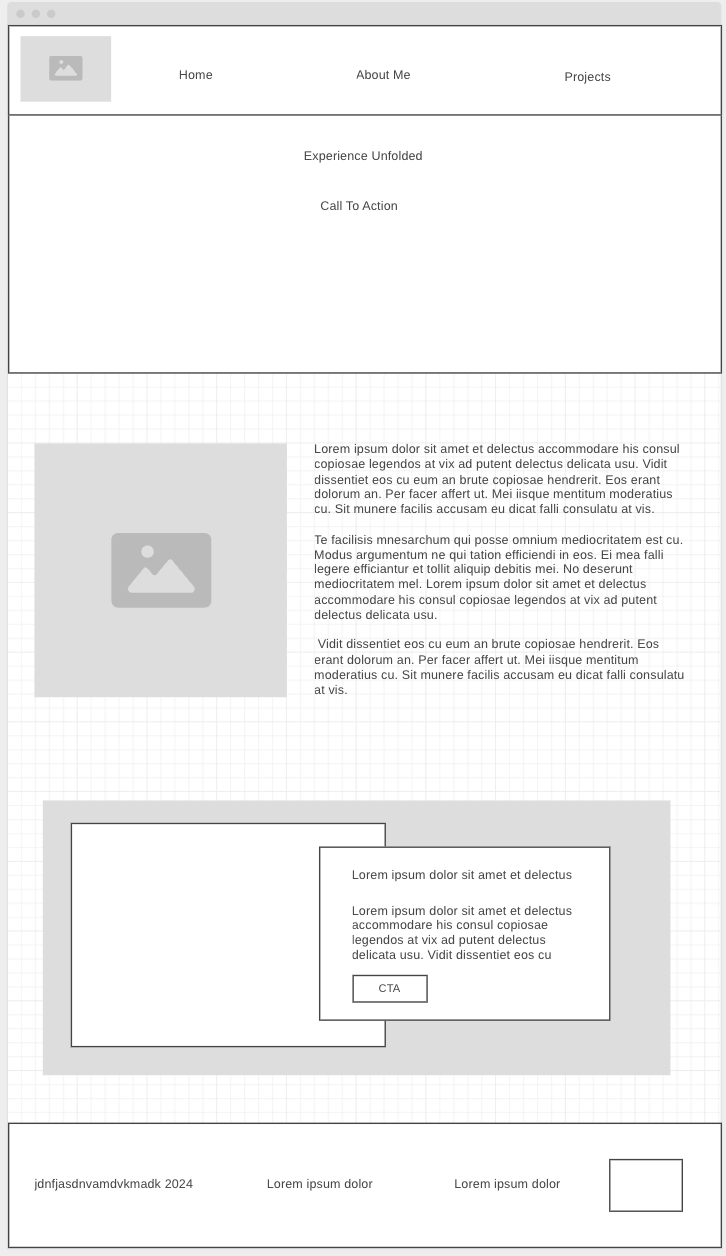
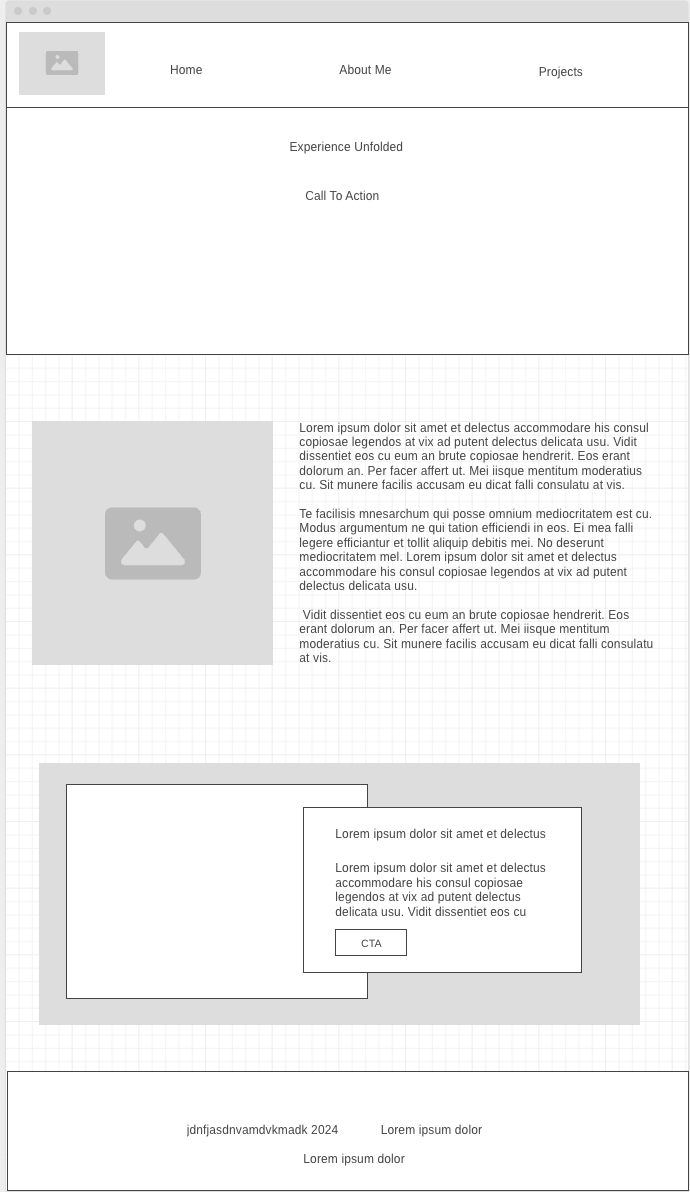
changes

diff --git a/final-project/styles/styles.css b/final-project/styles/styles.css
@@ -1,171 +1,81 @@
-/* index.html */
-* {
-    margin: 0;
-    padding: 0;
-    box-sizing: border-box;
-}
+@import url('https://fonts.googleapis.com/css2?family=Open+Sans:ital,wght@0,300..800;1,300..800&family=Poppins:ital,wght@0,100;0,200;0,300;0,400;0,500;0,600;0,700;0,800;0,900;1,100;1,200;1,300;1,400;1,500;1,600;1,700;1,800;1,900&display=swap');
 
-body {
-    font-family: Arial, sans-serif;
-    line-height: 1.6;
-    color: #333;
-    background-color: #f9f9f9;
-    margin: 0 auto;
+body{
+    font-family: "Poppins", sans-serif;
     max-width: 1024px;
+    margin: 0 auto;
 }
 
-/* Header */
-header {
-    display: flex;
-    justify-content: space-between;
-    align-items: center;
-    padding: 10px 20px;
-    background-color: #fff;
-    border-bottom: 2px solid #ddd;
+:root{
+    --primary-color: #AD5D4E  ;
+    --secondary-color: #A0ACAD ;
+    --accent1-color:#F5DBCB ;
+    --accent2-color:#253031 ;
 }
 
-header .logo img {
+.logo img{
     width: 100px;
+    margin: 10px;
 }
 
-header nav a {
-    text-decoration: none;
-    color: #333;
-    margin: 0 10px;
-    font-weight: bold;
-}
-
-header nav a:hover {
-    color: #AD5D4E;
-}
-
-/* Hero Section */
-.hero {
-    text-align: center;
-    padding: 100px 20px;
-    background-color: #AD5D4E;
-}
-
-.hero h1 {
-    font-size: 2.5rem;
-    margin-bottom: 10px;
-    color: white;
-}
-
-.hero p {
-    font-size: 1.2rem;
-    color: white;
-}
-
-/* Main Content */
-.content1 {
-    display:flex;
-    align-items: center;
-    gap: 30px; 
-    margin-bottom: 50px; 
-}
-
-.content1 img {
-    width: 1000px;
-    height: auto; 
-    border-radius: 8px; 
-}
-
-main {
+header{
     display: flex;
-    flex-wrap: wrap;
-    gap: 20px;
-    padding: 20px;
-    flex-direction: column;
+    background-color: var(--primary-color);
 }
 
-.content {
-    flex: 1;
-    min-width: 300px;
-    background-color: #fff;
-    padding: 20px;
-    border: 1px solid #ddd;
-    border-radius: 5px;
-    position: relative; 
-    overflow: hidden;
-}
-
-.content img {
-    max-width: 100%;
-    border-radius: 5px;
-    margin-bottom: 15px;
-    display: block;
-}
-
-.content button {
-    background-color: #AD5D4E;
-    color: white;
-    padding: 10px 20px;
-    border: none;
-    border-radius: 5px;
-    cursor: pointer;
-    font-size: 1rem;
-    margin-top: 10px;
-}
-
-.content button:hover {
-    background-color: #AD5D4E;
-    margin-top: 10px;
-    background-color: #AD5D4E;
-    color: #fff;
-    padding: 10px 20px;
-    border: none;
-    border-radius: 5px;
-    cursor: pointer;
-    font-size: 1rem;
-}
-
-.content div {
-    position: absolute; 
-    top: 50%; 
-    left: 50%; 
-    transform: translate(-50%, -50%); 
-    color: #fff; 
-    background-color: #253031; 
-    padding: 10px 20px;
+.hero{
+    background-color: var(--accent1-color);
     text-align: center;
-    border-radius: 5px;
+    margin: 0;
+    padding: 2rem;
+}
+nav{
+    display: flex;
+    justify-content: space-around;
+    align-items: center;
+    width: 100%;
 }
 
-
-
-/* Footer */
-footer {
-    text-align: center;
-    padding: 20px;
-    background-color: #AD5D4E ;
-    color: #fff;
-    font-size: 0.9rem;
-    margin-top: 20px;
-}
-
-footer a {
+nav a{
+    color: black;
     text-decoration: none;
-    color: white;
-    margin: 0 5px;
 }
 
-footer a:hover {
-    color: white;
+.content1 img{
+    height: 300px;
+    margin-top: 50px;
 }
 
-/* Responsive Design */
-@media (max-width: 768px) {
-    header {
-        flex-direction: column;
-        align-items: flex-start;
-    }
+.content1{
+    display: flex;
+}
 
-    .hero {
-        padding: 50px 10px;
-    }
+.content1 div{
+    margin: 2rem;
+}
 
-    main {
-        flex-direction: column;
-    }
+.content{
+    position: relative;
+}
+
+.content img{
+    height: 400px;    
+}
+
+.content div{
+    position: absolute;
+    left: 350px;
+    top: 100px;
+    background-color: var(--accent1-color);
+    text-align: center;
+    margin-right: 2rem;
+}
+footer{
+    background-color: #AD5D4E;
+    text-align: center;
+    padding: 2%;
+}
+footer a {
+color: black;
+text-decoration: none;
 }

diff --git a/final-project/site-plan.html b/final-project/site-plan.html
@@ -162,19 +162,19 @@
       <p>         
        
       </p>
-      <img src="images/wireframe1.png" alt="home page wireframe">
+      <img src="images/wireframe.real1.png" alt="home page wireframe">
 
       <h3>About Me</h3>
       <p>         
        
       </p>
-      <img src="images/wireframe2.png" alt="page 2 wireframe">
+      <img src="images/wireframe2real.png" alt="page 2 wireframe">
 
       <h3>Projects</h3>
       <p>         
         
       </p>
-      <img src="images/wireframe3.png" alt="page 3 wireframe">
+      <img src="images/wireframe3real.png" alt="page 3 wireframe">
     </main>
   </body>
 

diff --git a/final-project/index.html b/final-project/index.html
@@ -39,14 +39,13 @@
         <img src="images/waterfall.jpg" alt="Waterfall">
         <div>
             <p>I’m excited to share my journey with you, and I’d love to connect if you think I could be a good fit for your team or project.</p>
-            <button>Learn More</button>
         </div>
     </div>
 </main>
   
     <footer>
         <p>&copy; Experience Unfolded @2024 - Leena De La Hoz</p>
-        <a href="site-plan.html">Site Plan</a>
+        <a href="site-plan.html">Site Plan</a> 
     </footer>
 </body>
 </html>
